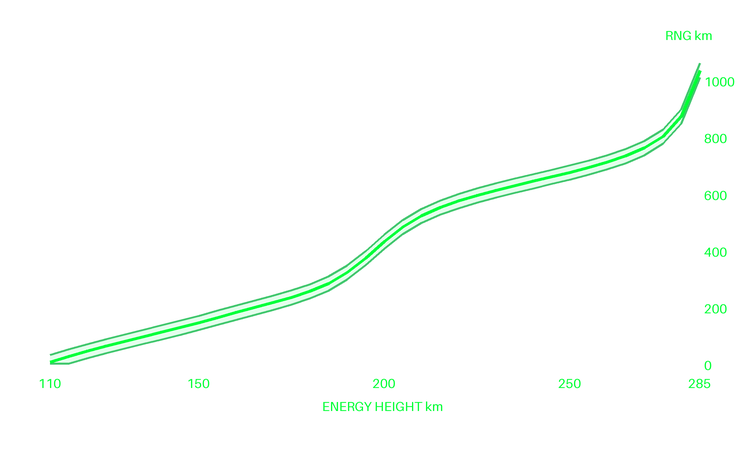
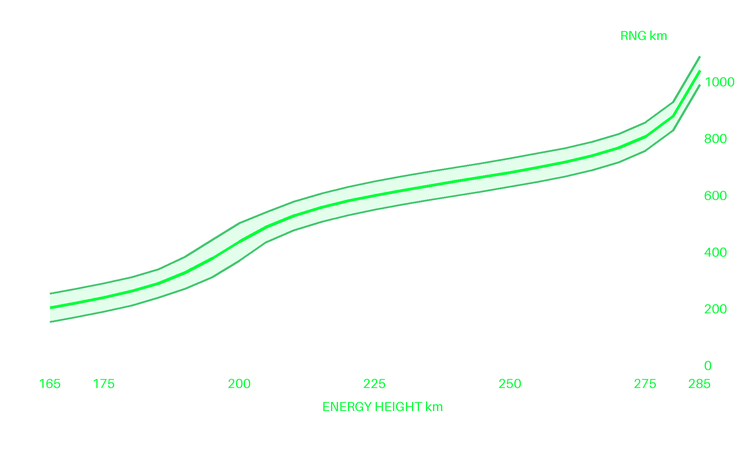
Split and widen entry trajectory displays

diff --git a/README.md b/README.md
@@ -189,7 +189,7 @@ Each run creates the next unused directory under `0:/POS_logs/`, for example:
 0:/POS_logs/flight_1/events.csv
 ```
 
-The files are never appended to or reused. `flight.csv` contains the replayable position, velocity, acceleration, attitude, DAP command, control-envelope, GPWS terrain-protection readouts, target/runway, terminal-guidance values, and the craft's current celestial body. Entry samples also record the planned and commanded predictive bank, active authority, both candidate banks, their signed range residuals and TEAM-box miss distances, the measured sensitivity, validity, calculation time, and next update time. Vacuum-landing samples additionally record the target coordinates, target distance, lowest-bounds clearance, speed, requested vertical speed, NERV throttle, braking distance, available acceleration, tail-contact state, pitch-down target, PDI solution error, predicted clearance, thrust saturation, node approval, and pitch-over readiness. Same-body rendezvous samples record target distance, relative speed, plane error, phase, and whether the docking handoff gate is satisfied. GPWS samples include its state, worst predicted clearance, required clearance, clearance margin, recovery timer, next scan time, and whether its pull-up control is active. `events.csv` records the decisions that explain state changes, including the flight's starting body, SOI/body transitions, vacuum target, node review and decision, de-orbit plan, braking start, translation start, engine-cutoff pitch-over, gear touchdown, GPWS state transitions, and rendezvous planning/burn/handoff transitions. The entry-trajectory solver and the simulation routines it calls do not perform any logging, so their calculations have no logging branches.
+The files are never appended to or reused. `flight.csv` contains the replayable position, velocity, acceleration, attitude, DAP command, control-envelope, GPWS terrain-protection readouts, target/runway, terminal-guidance values, and the craft's current celestial body. Entry samples also record the planned and commanded predictive bank, active authority, both candidate banks, their signed range residuals and TEAM-box miss distances, the measured sensitivity, validity, calculation time, and next update time. Vacuum-landing samples additionally record the target coordinates, target distance, lowest-bounds clearance, speed, requested vertical speed, NERV throttle, braking distance, available acceleration, tail-contact state, pitch-down target, PDI solution error, predicted clearance, thrust saturation, node approval, and pitch-over readiness. Same-body rendezvous samples record target distance, relative speed, plane error, phase, and whether the docking handoff gate is satisfied. GPWS samples include its state, worst predicted clearance, required clearance, clearance margin, recovery timer, next scan time, and whether its pull-up control is active. `events.csv` records the decisions that explain state changes, including the flight's starting body, SOI/body transitions, vacuum target, node review and decision, de-orbit plan, braking start, translation start, engine-cutoff pitch-over, gear touchdown, GPWS state transitions, entry display-page transitions, and rendezvous planning/burn/handoff transitions. The entry-trajectory solver and the simulation routines it calls do not perform any logging, so their calculations have no logging branches.
 
 If you find an issue, please report it in the [GitHub issue tracker](https://github.com/LionPapaya/POS-kos/issues) and include the matching `flight.csv` and `events.csv` logs. Together, the flight samples and state-transition events make the problem reproducible and diagnosable.
 
@@ -210,13 +210,16 @@ For a same-body orbital rendezvous, choose **Rendezvous** in Orbital Maneuvering
 
 When adding an abort mode, keep its behavior behind the abort-mode dispatcher and give it a dedicated flight-phase state. Add user-facing documentation only after the mode is implemented and tested with the Poseidon craft. This keeps the abort section easy to extend without documenting work-in-progress behavior.
 
-The `TRAJ 1 low` display uses a fixed energy-height/range corridor generated from successful `reentry_low` flight logs. Rebuild both its KerboScript profile and background image after selecting a new representative set:
+`TRAJ 1 V/SIT` and `TRAJ 2 V/SIT` are zoomed upper and lower views of one fixed energy-height/range corridor generated from successful `reentry_low` flight logs. The generator uses the median remaining range at each energy height, encloses every accepted source flight, and keeps a minimum ±50 km corridor. Rebuild the KerboScript profile and both backgrounds after selecting a new representative set:
 
 ```sh
-python3 support/build_entry_nominal.py /path/to/flight_252 /path/to/flight_253 /path/to/flight_254
+python3 support/build_entry_nominal.py \
+  /path/to/flight_244 /path/to/flight_247 /path/to/flight_248 \
+  /path/to/flight_252 /path/to/flight_253 /path/to/flight_254 \
+  /path/to/flight_256 /path/to/flight_260 /path/to/flight_265
 ```
 
-The generator takes the median remaining range at each energy height and applies a minimum ±25 km corridor, so the display remains useful even when the source flights overlap almost exactly. Validate a regenerated display in KSP; the offline GUI workbench approximates kOS layout but is not a Unity renderer.
+Above 30 km the display uses `TRAJ 1 V/SIT`; below 30 km it changes to the enlarged lower segment in `TRAJ 2 V/SIT`. TEAM then uses the wide `TRAJ 3 L/SIT` and the close-in `TRAJ 4 L/SIT`. Validate regenerated displays and page transitions in KSP; the offline GUI workbench approximates kOS layout but is not a Unity renderer.
 
 ## Credits
 
